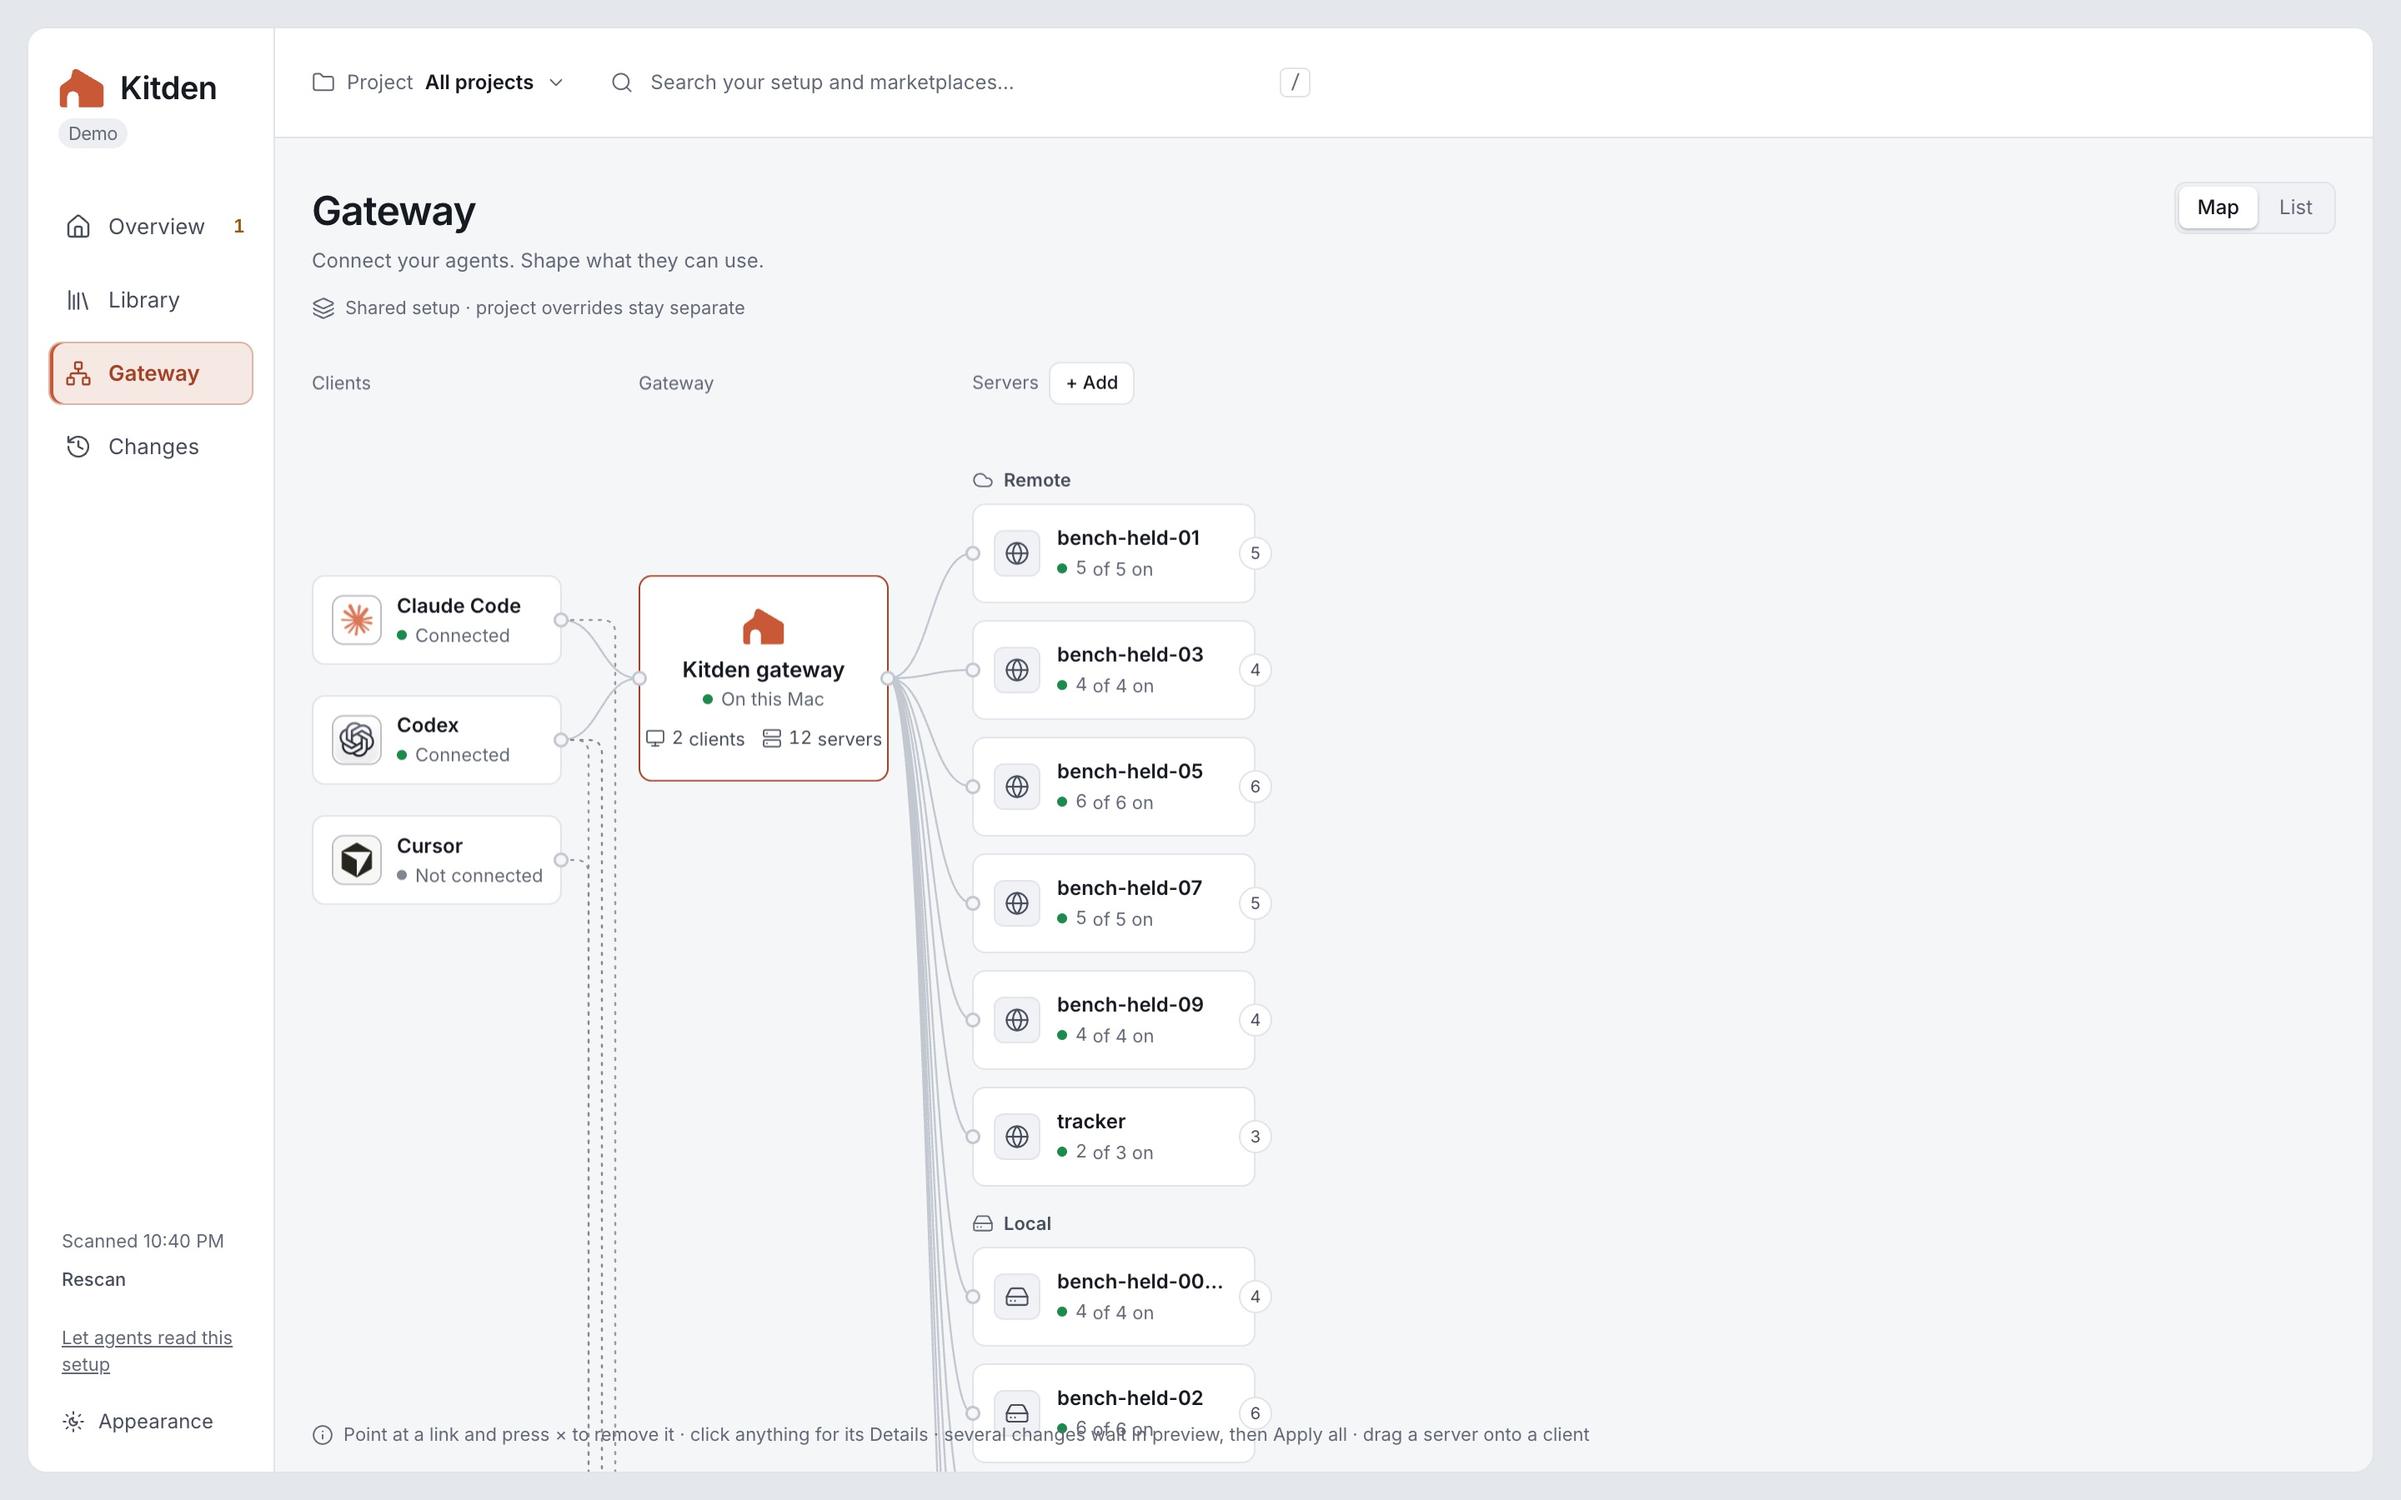
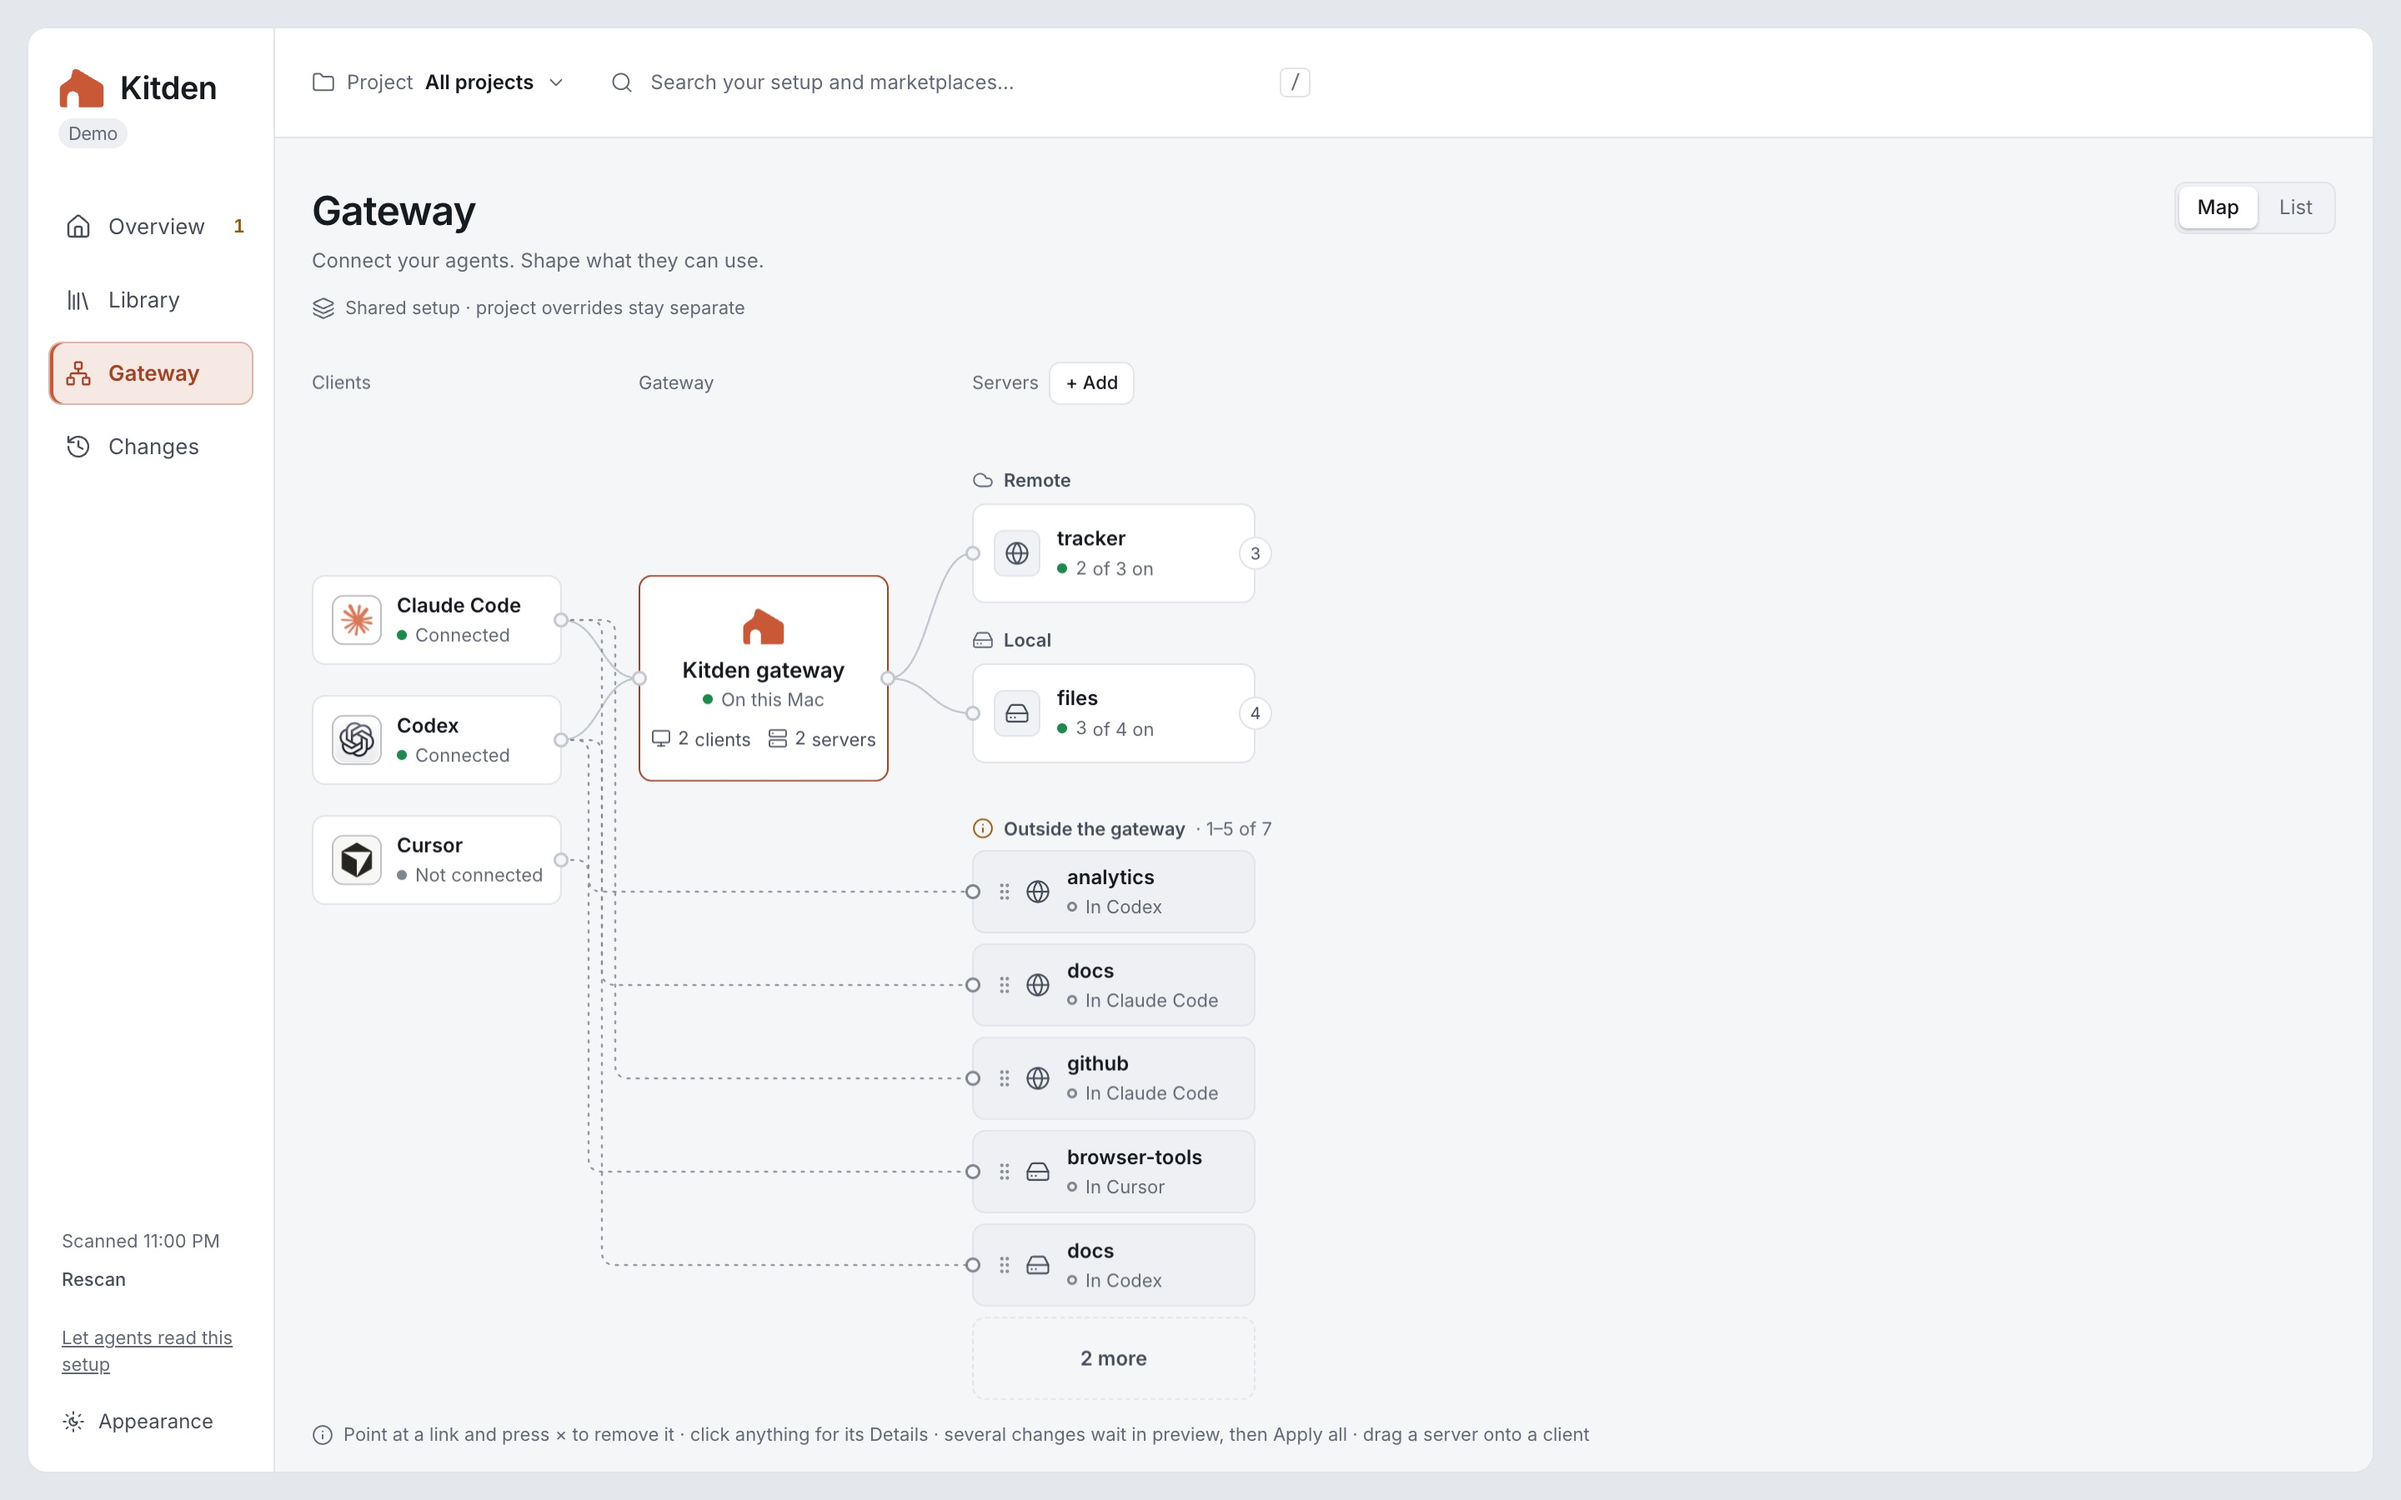
Docs: shots from the medium demo, and truer README and roadmap lines
The README says how to connect a client and use Obot or MetaMCP; old roadmap lines fixed.

diff --git a/tests/unit/test_docs_words.py b/tests/unit/test_docs_words.py
@@ -1,3 +1,4 @@
+import re
 from pathlib import Path
 
 ROOT = Path(__file__).parents[2]
@@ -147,14 +148,18 @@ IMAGES = "https://raw.githubusercontent.com/KonstantinStarovoytov/kitden/main/do
 
 
 def test_every_readme_image_is_a_full_address_to_a_file_we_have():
-    import re
-
     readme = (ROOT / "README.md").read_text()
     images = re.findall(r'(?:src|srcset)="([^"]+)"', readme)
     assert images
     for image in images:
         assert image.startswith(IMAGES), image
-        assert (ROOT / "docs/images" / image.removeprefix(IMAGES)).is_file(), image
+    # A Markdown image may be another site's badge (Add to Cursor); ours must exist too.
+    marked = re.findall(r"!\[[^\]]*\]\(([^)\s]+)\)", readme)
+    assert marked
+    for image in images + marked:
+        assert image.startswith("https://"), image
+        if image.startswith(IMAGES):
+            assert (ROOT / "docs/images" / image.removeprefix(IMAGES)).is_file(), image
     # The four pages, light and dark, and no screenshot that nothing shows.
     shots = {image.removeprefix(IMAGES) for image in images if image.endswith(".jpg")}
     pages = ("overview", "gateway", "library", "changes")

diff --git a/README.md b/README.md
@@ -12,7 +12,7 @@ Look at each change first. Apply keeps a backup for Undo.</p>
 <p align="center">
   <picture>
     <source media="(prefers-color-scheme: dark)" srcset="https://raw.githubusercontent.com/KonstantinStarovoytov/kitden/main/docs/images/overview-dark.jpg">
-    <img src="https://raw.githubusercontent.com/KonstantinStarovoytov/kitden/main/docs/images/overview.jpg" alt="Kitden Overview: one thing needs attention, servers that skip the gateway can improve, and a small map of your setup" width="860">
+    <img src="https://raw.githubusercontent.com/KonstantinStarovoytov/kitden/main/docs/images/overview.jpg" alt="Kitden Overview: a file Kitden could not read, servers to move into the gateway, Cursor to connect, and a small map of your setup" width="860">
   </picture>
 </p>
 
@@ -40,8 +40,8 @@ that server into.
 ### See what needs you
 
 **Overview** lists what needs your attention, such as an item that loads twice or a file Kitden
-could not read, and what can improve, such as servers that skip your gateway. Each card has one
-button. Beside the cards a small map shows your clients, the Kitden gateway and the Library;
+could not read, and what can improve, such as servers that skip your gateway. Most cards have
+one button. Beside the cards a small map shows your clients, the Kitden gateway and the Library;
 point at a card to see what it is about.
 
 ### Use one gateway for every client
@@ -53,6 +53,9 @@ holds and their tools. A link means on; no link means off.
   where it lands. Without a mouse, use "Move in…" in the List.
 - Point at a link and press × to take it away: disconnect a client, take a server out, or turn a
   tool off.
+- Connect a client with its "Connect…" card on Overview, by dragging it onto the gateway, or with
+  "Connect to the gateway…" in its Details. Drag a server onto a client to move it out of the
+  gateway, or use "Put back in Codex…".
 - Pick a project at the top to turn a tool on or off there only. "Turn off in some projects…"
   ticks several at once, and "Use the shared rule…" drops a project's own rule.
 - "+ Add" lists the MCP servers your marketplaces offer.
@@ -61,13 +64,14 @@ holds and their tools. A link means on; no link means off.
 <p align="center">
   <picture>
     <source media="(prefers-color-scheme: dark)" srcset="https://raw.githubusercontent.com/KonstantinStarovoytov/kitden/main/docs/images/gateway-dark.jpg">
-    <img src="https://raw.githubusercontent.com/KonstantinStarovoytov/kitden/main/docs/images/gateway.jpg" alt="The Gateway map: Claude Code and Codex linked to the Kitden gateway and the servers it holds; Cursor not connected yet" width="860">
+    <img src="https://raw.githubusercontent.com/KonstantinStarovoytov/kitden/main/docs/images/gateway.jpg" alt="The Gateway map: Claude Code and Codex linked to the Kitden gateway and its two servers; below, the servers outside the gateway, each joined to its client by a dotted line" width="860">
   </picture>
 </p>
 
 The Kitden gateway runs on your Mac, with no deploy and no account. It is the `kitden` entry that
-already lets agents read your setup. [Obot](https://obot.ai) and MetaMCP stay for teams that want
-a shared service.
+already lets agents read your setup. Kitden also works with an [Obot](https://obot.ai) or MetaMCP
+gateway, for teams that want a shared service: "Add another gateway…" adds one, servers move into
+it, and "Use this gateway…" switches every client to it.
 
 - A tool you turn off is refused at once, even in a session that is already open; other changes
   apply to new sessions, and a call already running is not stopped.
@@ -109,7 +113,7 @@ such as `${TOKEN}`, entries that start in their own folder, and SSE or WebSocket
 <p align="center">
   <picture>
     <source media="(prefers-color-scheme: dark)" srcset="https://raw.githubusercontent.com/KonstantinStarovoytov/kitden/main/docs/images/library-dark.jpg">
-    <img src="https://raw.githubusercontent.com/KonstantinStarovoytov/kitden/main/docs/images/library.jpg" alt="The Library map: Claude Code, Codex and Cursor linked to the plugins they load, grouped by marketplace" width="860">
+    <img src="https://raw.githubusercontent.com/KonstantinStarovoytov/kitden/main/docs/images/library.jpg" alt="The Library map: Claude Code, Codex and Cursor linked to the plugins and skills they load, grouped by where they come from" width="860">
   </picture>
 </p>
 
@@ -143,7 +147,7 @@ change again, and "See it on the map" opens the item it changed.
 <p align="center">
   <picture>
     <source media="(prefers-color-scheme: dark)" srcset="https://raw.githubusercontent.com/KonstantinStarovoytov/kitden/main/docs/images/changes-dark.jpg">
-    <img src="https://raw.githubusercontent.com/KonstantinStarovoytov/kitden/main/docs/images/changes.jpg" alt="The Changes page: today's change, Applied, with Undo; its Details show the project, the backup and the history" width="860">
+    <img src="https://raw.githubusercontent.com/KonstantinStarovoytov/kitden/main/docs/images/changes.jpg" alt="The Changes page: three changes today, one of them undone; the Details of the newest show the project, the backup, what to restart and the history" width="860">
   </picture>
 </p>
 

diff --git a/ROADMAP.md b/ROADMAP.md
@@ -107,9 +107,7 @@ What Kitden does today and what comes next. Ideas and bugs:
   back. "Show changes" opens one row's full review. On the map each change lands in its turn after
   Apply all, and Undo all takes them back the last one first.
 - **Library:** one page in place of Load map and Discover. Only the clients on this computer get
-  a column, and the action sits in the client's cell: "+ Add", or why there is none. A server
-  another client has points to the gateway; a marketplace says it comes with its first plugin.
-  "Add…" for several clients warns, like "+ Add", when a client would load two of the same name.
+  a column, and the action sits in the client's cell: "+ Add", or why there is none.
 - **Add skills:** a client that cannot install a plugin takes its skills instead, in one change
   with Undo. It reads plugins from Codex's marketplaces and the ones Cursor installed itself.
   A skill the client already loads, from its folders or another plugin, is left out.
@@ -126,8 +124,7 @@ What Kitden does today and what comes next. Ideas and bugs:
   effect, the clients and the history; "See it on the map" opens the item, and "Redo…" on an
   undone change previews it again in the tray, unless a later change already made it again. The
   Undo toast names the change.
-- **Categories:** filter plugins and skills by category. The category shows quietly in each row.
-- **Quick start:** the page has its data in about two seconds. Codex's slow plugin list comes in
+- **Quick start:** the page has its data in under a second. Codex's slow plugin list comes in
   the background, and a line shows what is still read.
 - **Rescan:** also checks the client versions, so a client updated while the page runs shows
   its new version.
@@ -138,15 +135,15 @@ What Kitden does today and what comes next. Ideas and bugs:
 - **Add scope:** in a project, the Library says an Add puts the item in all your projects.
 - **Kitden's own entries:** no cross-client note for them.
 - **True words:** the start link, the agents server, where secrets go, and the sign-in check.
-- **Gateway page:** says the gateway controls only the servers in it, and folds a group after
-  six rows.
+- **Gateway page:** says the gateway controls only the servers in it, and a group of more than
+  six shows five at a time.
 - **Strict mode:** a server can offer only the tools you turned on, for all projects. New tools
-  wait as "New · off". Codex's allowed-tools list moves in as strict.
+  wait as "New · waits". Codex's allowed-tools list moves in as strict.
 - **Turned off means refused:** a tool you turn off is refused at once, in open sessions too.
   Folders Kitden does not know follow the All projects switches, and the page says so.
 - **Reads and writes:** each tool shows a quiet word, from the server or its name.
   "Turn off every writing tool…" is one change, with the token advice.
-- **Calls counted:** hover a tool to see how often it was called and when last.
+- **Calls counted:** a tool's Details say how often it was called and when last ("Calls").
 - **Remove a plugin:** "Remove from <client>…" in its Details. Undo installs it again, but not
   its saved options.
 - **Remove a skill:** its folder goes to the backup, and Undo puts it back.
@@ -173,8 +170,8 @@ What Kitden does today and what comes next. Ideas and bugs:
   runs no client, uses no Keychain and stays offline.
 - **Secrets in the Keychain:** a server moved into the Kitden gateway keeps its secrets in your
   macOS Keychain, and a backup or a change record says when it holds a secret.
-- **Instructions:** CLAUDE.md, AGENTS.md, Cursor rules, Claude Code's commands and agents, and a
-  tool count for each server in the gateway.
+- **Instructions:** CLAUDE.md, AGENTS.md, Cursor rules, and Claude Code's commands and agents.
+- **Tool counts:** a server in the gateway shows how many tools it has.
 
 ### 0.2.0
 
@@ -255,7 +252,8 @@ Left for later in the alignment plan's phase notes:
 - Screen readers: announce "Copied" after Copy.
 - Overview: one Update… for every old entry, so its card says In preview for an Agents-page row
   too; read the gateway settings and the notes fewer times.
-- Changes: Redo… stays hidden after a later change that reversed the same request.
+- Changes: Redo… stays hidden while a later verified change has the same request, even if a still
+  later change reversed it.
 - Code tidy-ups: the narrower project id for local items, the dead `flip` switch option, the
   imports between the Add panel and Details, smaller Library helpers, and old frontend tests
   that print a whole element when they fail.

diff --git a/docs/releases/v0.3.0.md b/docs/releases/v0.3.0.md
@@ -1,4 +1,4 @@
-Kitden 0.3.0 is a new page, built from the owner's motion mockup. The Gateway and the Library
+Kitden 0.3.0 is a new page with a new design. The Gateway and the Library
 are maps you can drag on, every change waits in one preview tray, and the Kitden gateway runs
 on your Mac with tool rules per project.
 
@@ -41,7 +41,7 @@ on your Mac with tool rules per project.
 
 ## Better
 
-- The page has its data in about two seconds. Codex's slow plugin list and the client versions
+- The page has its data in under a second. Codex's slow plugin list and the client versions
   come in the background, and Rescan reads the versions again.
 - Details say in words where each client loads an item and what a change reaches. Paths and
   commands wait under Technical details.
@@ -53,14 +53,10 @@ on your Mac with tool rules per project.
 - The address keeps the project and the item you opened, so a link or Back returns to it.
 - Kitden reads Claude Code's local project settings, also at a git repository's root.
 - Kitden writes only in your home folder and your known projects.
+- A map draw lands even when the browser holds frames back.
 
 ## Fixed
 
 - Undo and a failed Apply also run the client's own commands for a mixed change, and say what
   could not be put back.
-- A broken gateway rules file no longer allows every tool.
-- A removed skill's half-removed folder is put back.
-- A server copy never shows a default value, and Cursor variables are refused.
 - A marketplace source that holds a password or a token is refused.
-- Focus stays where it was when the page draws again, and a map draw lands even when the browser
-  holds frames back.
